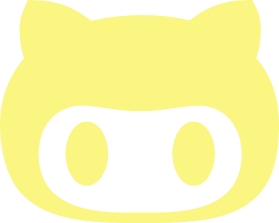
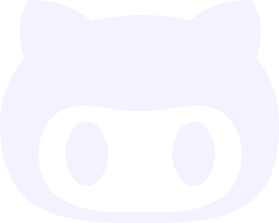
face lift

diff --git a/index.html b/index.html
@@ -15,9 +15,10 @@
             
             <nav>
                 <ul>
+                  
                     <li><a href="#work_section" alt="work tab">Work</a></li>
                     <li><a href="#skills" alt="skills tab">Skills</a></li>
-                    <a href = "mailto: jonrawlings.software@gmail.com">Email</a>
+                    <a href = "mailto: jonrawlings.software@gmail.com">Contact</a>
                 </ul>
             </nav>
         </header>
@@ -34,15 +35,10 @@
         <div class="content">
            
             <h1 class="name"><span class="green-letter">Jon Rawlings</span></h1>
-                <h4 class="small-letters">Front-End Software Developer</h4>
+                <h4 class="small-letters">UI/UX Designer &<br>Front-End Software Developer</h4>
             <img src="">
             
             <div class="meet">
-            
-                
-              
-                
-                
             </div>
             <svg class="scroll stagger1" width="40" height="77" viewBox="0 0 40 77">
                 <g id="scroll" transform="translate(-253 -787)">
@@ -50,18 +46,18 @@
                     <rect width="40" height="77" rx="20" stroke="none"/>
                     <rect x="2" y="2" width="36" height="73" rx="18" fill=""/>
                   </g>
-                  <circle class="circle" id="Ellipse_1" data-name="Ellipse 1" cx="11" cy="11" r="11" transform="translate(262 798)" fill="#FB8181"/>
+                  <circle class="circle" id="Ellipse_1" data-name="Ellipse 1" cx="11" cy="11" r="11" transform="translate(262 798)" fill="#fff"/>
                 </g>
               </svg>
         </div>
         <svg xmlns="http://www.w3.org/2000/svg" class="hero-design" width="686" height="688" viewBox="0 0 686 688">
             <g id="blockdesign" transform="translate(-935 -289)">
               <rect class="square-anim" data-name="Rectangle 2" width="172" height="172" rx="19" transform="translate(1277 289)" fill="#415A77"/>
-              <rect class="square-anim" data-name="Rectangle 10" width="172" height="172" rx="86" transform="translate(1277 461)" fill="#81FBA3"/>
+              <rect class="square-anim" data-name="Rectangle 10" width="172" height="172" rx="86" transform="translate(1277 461)" fill="#f4f2ff"/>
               <rect class="square-anim" data-name="Rectangle 8" width="172" height="172" rx="19" transform="translate(1449 461)" fill="#0D1B2A"/>
               <rect class="square-anim" data-name="Rectangle 5" width="172" height="172" rx="19" transform="translate(1277 633)" fill="#415A77"/>
               <rect class="square-anim" data-name="Rectangle 3" width="172" height="172" rx="19" transform="translate(1107 461)" fill="black"/>
-              <rect class="square-anim" data-name="Rectangle 9" width="172" height="172" rx="86" transform="translate(1107 633)" fill="#FBF681"/>
+              <rect class="square-anim" data-name="Rectangle 9" width="172" height="172" rx="86" transform="translate(1107 633)" fill="#f4f2ff"/>
    
               <rect class="square-anim" data-name="Rectangle 4" width="172" height="172" rx="19" transform="translate(1107 805)" fill="#0D1B2A"/>
             </g>
@@ -74,11 +70,11 @@
                 <p class="subtitle">featured Programmer</p>
                 <a href="#" class="featured-title">About me</a>
 
-                <p class="featured-desc">I am a 30 year old software developer from Southern California who has a passion for Front-end development, Blockchain & UI Development.</p>
+                <p class="featured-desc">Hello, I am a professional Frontend developer and UI designer, i've spent the last few years sharpening my skill while also leading , designing and programming products from start to production. I'm very much a people person and love to make things I can take pride in while at the same time give a client a product above and beyond what they asked for.</p>
             </div>
         </div>
         
-        <img class="right transition" src="images/aboutmecover.png" alt="Featured Project">
+        <img class="right transition" src="images/aboutme.png" alt="Featured Project">
     
     </section>
 
@@ -89,15 +85,15 @@
                     <div class="icon-container one">
                         <img id="img-skill1" src="images/uicover.svg" alt="UI/UX icon">
                     </div>
-                    <p class="skill-title">UI/Illustrations & Design</p>
-                    <p class="featured-desc skill-desc">Custom web designs, UI/UX pricipals, Custom Illustrations, Attention to detail & passion to create.</p>
+                    <p class="skill-title">UI/UX & design</p>
+                    <p class="featured-desc skill-desc">Figma <br> Adobe Illustrator <br>Adobe Photoshop</p>
                 </li>
                 <li class="transition2">
                     <div class="icon-container two">
                         <img id="img-skill2" src="images/code-solid 1.svg" alt="Frontend icon">
                     </div>
-                    <p class="skill-title">Frontend Development</p>
-                    <p class="featured-desc skill-desc"> Mobile-first & Responsive focus designs, HTML5, CSS, Javascript, React & Web3. 
+                    <p class="skill-title">Frontend development</p>
+                    <p class="featured-desc skill-desc"> SasS <br>React<br>  Html Css<br> Javascript 
                         
                     </p>
                 </li>
@@ -105,8 +101,8 @@
                     <div class="icon-container three">
                         <img id="img-skil31" src="images/gears.svg" alt="UI/UX icon">
                     </div>
-                    <p class="skill-title">Backend Development</p>
-                    <p class="featured-desc skill-desc">NodeJs, Express, Ruby on Rails & Solidty.</p>
+                    <p class="skill-title">Other</p>
+                    <p class="featured-desc skill-desc"> Git<br> Jira <br> Azure<br> Python<br> NodeJs</p>
                 </li>
             </ul>
         </div>

diff --git a/dist/css/main.css b/dist/css/main.css
@@ -22,25 +22,15 @@ img {
 
 .nav-container {
   background: #415A77;
-  cursor: pointer;
-  
+}
 
-  
+.small-letters {
+  color: #89ffd8;
+  font-size: 1.5rem;
 }
 
 .nav-container a {
-  color: #FBF681;
-  
-}
-.nav-container a:hover{
-  color: #FB8181;
-  transform: scale(1.3);
-  transition-timing-function: ease-in;
-
-  /* Quick on the way out */
-  transition: 0.2s;
-
-
+  color: white;
 }
 
 header {
@@ -50,13 +40,12 @@ header {
   -webkit-box-pack: justify;
       -ms-flex-pack: justify;
           justify-content: space-between;
-  padding: 1em;
-  
+  padding: 2em;
 }
 
-.logo {
-   padding: 0;
-   
+header .logo {
+  color: #cecece;
+  font-weight: bold;
 }
 
 header ul {
@@ -72,72 +61,44 @@ header ul a {
 
 .social-header, .hero-design {
   display: none;
-  
-  
-}
-.arrow {
-  margin-top: -1em;
-  color: #81FBA3;
-  font-size: 3em;
-}
-.green-letter{
-  color: whitesmoke;
-  font-size: 1em;
-  letter-spacing: -1px;
-  font-weight: 400;
-  text-shadow: 3px 5px 4px #000000;
 }
 
-.small-letters{
-  font-size: 1.7em;
-  font-weight: 100;
-  color: #81FBA3;
-  letter-spacing: 1px;
-  margin-top: -.6em;
-  text-shadow: 3px 5px 2px #000000;
-  
-  
-}
 .hero {
-  background: black;
+  background: #778DA9;
   color: white;
   display: -ms-grid;
   display: grid;
   text-align: center;
   padding: 4em;
-  
 }
 
 .meet {
-  width: 4em;
   display: -webkit-box;
   display: -ms-flexbox;
   display: flex;
   margin: 0 auto;
+  width: 200px;
   font-weight: bold;
-  text-shadow: 3px 5px 2px #000000;
-  
+  color: #D481FB;
 }
 
-
+.meet span {
+  margin-top: 1em;
+  margin-right: .5em;
+}
 
 .scroll {
   width: 30px;
   margin-top: 2em;
-  padding-left: .3em;
 }
 
 section {
- 
   padding: 4em 2em;
   text-align: center;
-  background-color: #000000;
-  
 }
 
 .featured {
   position: relative;
-  
 }
 
 .featured::before {
@@ -146,8 +107,7 @@ section {
   width: 200px;
   height: 200px;
   border-radius: 50%;
-  background: #415A77;
-  opacity: 43%;
+  background: #778DA9;
   top: 0;
   left: 0;
   z-index: -1;
@@ -156,13 +116,13 @@ section {
 .subtitle {
   text-transform: uppercase;
   font-weight: bold;
-  color: #81FBA3;
+  color: #89ffd8;
   letter-spacing: .2em;
   font-size: .85em;
 }
 
 .featured-title {
-  color: #FBF681;
+  color: white;
   font-weight: bold;
   font-size: 1.3em;
   margin-top: -.4em;
@@ -182,7 +142,7 @@ section {
 }
 
 .skills-container ul li {
-  color: #FBF681;
+  color: #89ffd8;
   background: black;
   padding: 2em;
   border-radius: 1em;
@@ -192,7 +152,6 @@ section {
 .skills-container ul li .icon-container {
   height: 100px;
   display: -ms-grid;
-
   display: grid;
   place-content: center;
   margin: 0 auto;
@@ -219,12 +178,10 @@ section {
 }
 
 .portfolio {
-  background: #0D1B2A;
-  
+  background: black;
 }
 
 .portfolio-container a img {
- 
   border-radius: 1em;
   margin-bottom: 2em;
 }
@@ -277,14 +234,13 @@ section {
     display: grid;
     -ms-grid-columns: 66% auto;
         grid-template-columns: 66% auto;
-        background: black;
+    background: unset;
   }
   .nav-container header {
-    background-color: #415A77;
-    
+    background: #415A77;
   }
   header {
-    padding: 2em 2em 1em 4em;
+    padding: 2em 2em 2em 4em;
   }
   .social-header {
     padding: 2em 4em 2em 0;
@@ -313,11 +269,11 @@ section {
     display: grid;
     -ms-grid-columns: 66% auto;
         grid-template-columns: 66% auto;
-   
+    background: unset;
     padding: 0;
   }
   .hero .content {
-    background: #0D1B2A;
+    background: #778DA9;
     padding: 6em 8em 6em 4em;
     text-align: left;
   }
@@ -351,7 +307,7 @@ section {
     padding: 10em 10em 4em 10em;
   }
   .hero .content {
-    padding: 5em 8em 10em;
+    padding: 6em 8em 6em 10em;
   }
 }
 

diff --git a/dist/css/main.scss b/dist/css/main.scss
@@ -33,6 +33,7 @@ header {
     .logo {
         color: #cecece;
         font-weight: bold;
+       
     }
 
     ul {
@@ -98,7 +99,7 @@ section {
 .subtitle {
     text-transform: uppercase;
     font-weight: bold;
-    color:  #FF89D7;
+    color:  #89ffd8;
     letter-spacing: .2em;
     font-size: .85em;
 }
@@ -124,7 +125,7 @@ section {
 }
 
 .skills-container ul li {
-    color: #FF89D7;
+    color: #89ffd8;
     background: black;
     padding: 2em;
     border-radius: 1em;
